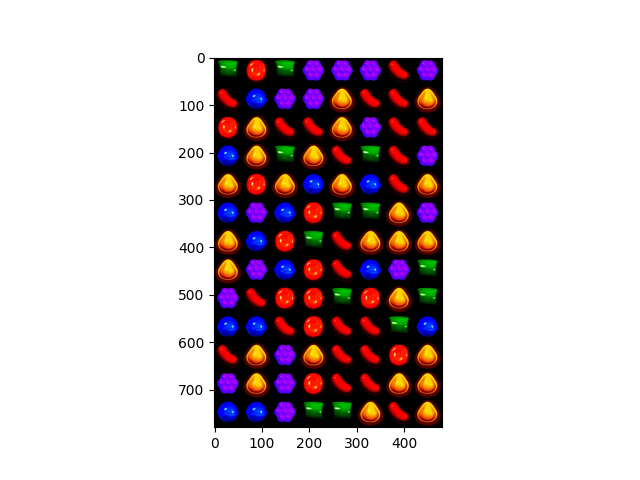
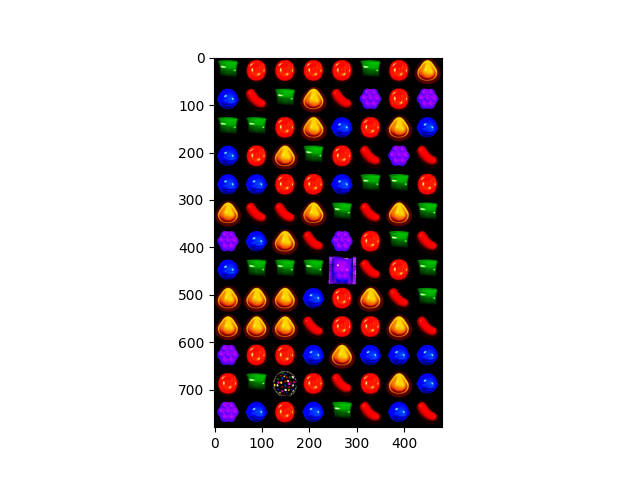
fix gym

Changed region(s): [[0.3125, 0.125, 0.6875, 0.9062]]

diff --git a/CandyCrushGym.py b/CandyCrushGym.py
@@ -182,9 +182,22 @@ class CandyCrushGym(gym.Env):
         # Horizontal or vertical
         #
 
-        reward += self.react_horizontal_vertical(list_rows_swap, list_columns_swap)
-        reward += self.react_horizontal_vertical(list_rows, list_columns)
-        
+        reward_stripped_candy = self.react_horizontal_vertical(list_rows_swap, list_columns_swap)
+
+        if reward_stripped_candy != 0:
+            self.state[y_swap, x_swap] = -1
+            self.columns_to_fill.add(x_swap)
+            
+        reward += reward_stripped_candy
+
+
+        reward_stripped_candy += self.react_horizontal_vertical(list_rows, list_columns)
+        if reward_stripped_candy != 0:
+            self.state[y, x] = -1
+            self.columns_to_fill.add(x)
+            
+        reward += reward_stripped_candy
+
         #
         # Five candys: T or L shape
         #
@@ -205,10 +218,11 @@ class CandyCrushGym(gym.Env):
         #
         # Three candys in a line (column or row)
         #
-      
+
+
         reward += self.reactThreeCandys(list_rows_swap, list_columns_swap)
         reward += self.reactThreeCandys(list_rows, list_columns)
-        
+ 
      
         return reward
 
@@ -726,7 +740,7 @@ class CandyCrushGym(gym.Env):
             if id == swapped_candyID:
                 self.state[max(y-1, self.CANDY_BUFF_HEIGHT):min(y+2, self.FIELD_SIZE + self.CANDY_BUFF_HEIGHT -1), max(x-1, 0):min(x+2, self.FIELD_SIZE -1)] = -1
                 
-                for i in range(max(x-1, self.CANDY_BUFF_HEIGHT),min(x+2, self.FIELD_SIZE + self.CANDY_BUFF_HEIGHT)):
+                for i in range(max(x-1, self.CANDY_BUFF_HEIGHT),min(x+2, self.FIELD_SIZE)):
                     self.columns_to_fill.add(i)
 
                 return 1
@@ -843,6 +857,8 @@ class CandyCrushGym(gym.Env):
     def reactThreeCandys(self, list_rows, list_columns):
         state = np.copy(self.state)
 
+       
+
         if len(list_columns) == 3:
             for y0, x0 in list_columns:
 
@@ -854,10 +870,12 @@ class CandyCrushGym(gym.Env):
                 self.columns_to_fill.add(x0) 
             return 0.25
 
+        
         elif len(list_rows) == 3:
             for y0, x0 in list_rows:
                 
                 if self.state[y0, x0] == -1:
+                    print("break")
                     self.state = state
                     return 0 
 

diff --git a/Window/Test.py b/Window/Test.py
@@ -24,19 +24,19 @@ state = env.reset()
 # )
 
 env.state = np.array(
-[[4,2,4,6,6,6,1,6],
- [1,5,6,6,3,1,1,3],
- [2,3,1,1,3,6,1,1],
- [5,3,4,3,1,4,1,6],
- [3,2,3,5,3,5,1,3],
- [5,6,5,2,4,4,3,6],
- [3,5,2,4,1,3,3,3],
- [3,6,5,2,1,5,6,4],
- [6,1,2,2,4,2,3,4],
- [5,5,1,2,1,1,4,5],
- [1,3,6,3,1,1,2,3],
- [6,3,6,2,1,1,3,3],
- [5,5,6,4,4,3,1,3]]
+[[ 4, 2, 2, 2, 2, 4, 2, 3],
+ [ 5, 1, 4, 3, 1, 6, 2, 6],
+ [ 4, 4, 2, 3, 5, 2, 3, 5],
+ [ 5, 2, 3, 4, 2, 1, 6, 1],
+ [ 5, 5, 2, 2, 5, 4, 4, 2],
+ [ 3, 1, 1, 3, 4, 1, 3, 4],
+ [ 6, 5, 3, 1, 6, 2, 4, 1],
+ [ 5, 4, 4, 4,12, 1, 2, 4],
+ [ 3, 3, 3, 5, 2, 3, 1, 4],
+ [ 3, 3, 3, 1, 2, 2, 3, 1],
+ [ 6, 2, 2, 5, 3, 5, 5, 5],
+ [ 2, 4,25, 2, 1, 2, 3, 5],
+ [ 6, 5, 2, 5, 4, 1, 5, 1]]
 )
 
 
@@ -46,7 +46,7 @@ state_img = stateToImageConverter(env.state)
 plt.imshow(state_img)
 plt.savefig("test1.png")
 
-env.step(100)
+env.step(48)
 
 state_img = stateToImageConverter(env.state)
 plt.imshow(state_img)

diff --git a/Window/PlayGame.py b/Window/PlayGame.py
@@ -34,8 +34,8 @@ import tensorflow as tf
 
 from PlayGameConfig import *
 
-show_arrow_time = 1
-show_swap_time = 1
+show_arrow_time = 2
+show_swap_time = 2
 show_empty_time = 1
 drop_candy_time = 0.03
 
@@ -210,7 +210,7 @@ def main():
     policyValueNetwork = PolicyValueNetwork()
     policyValueNetwork.load_weights(f"../saved_model/trained_weights_3").expect_partial()
    
-    seed = 34326 #np.random.randint(0, 500000)
+    seed = np.random.randint(0, 500000)
     print(seed)
     env = CandyCrushGym(seed)
 
@@ -233,7 +233,7 @@ def main():
 
     window.update_reward_value_statistics_plot(0, 0, 0, 0, init=True)
 
-    for num_step in range(10):
+    for num_step in range(30):
         
         mcts = MCTS_Window(env, policyValueNetwork, stateToImageConverter)
 
